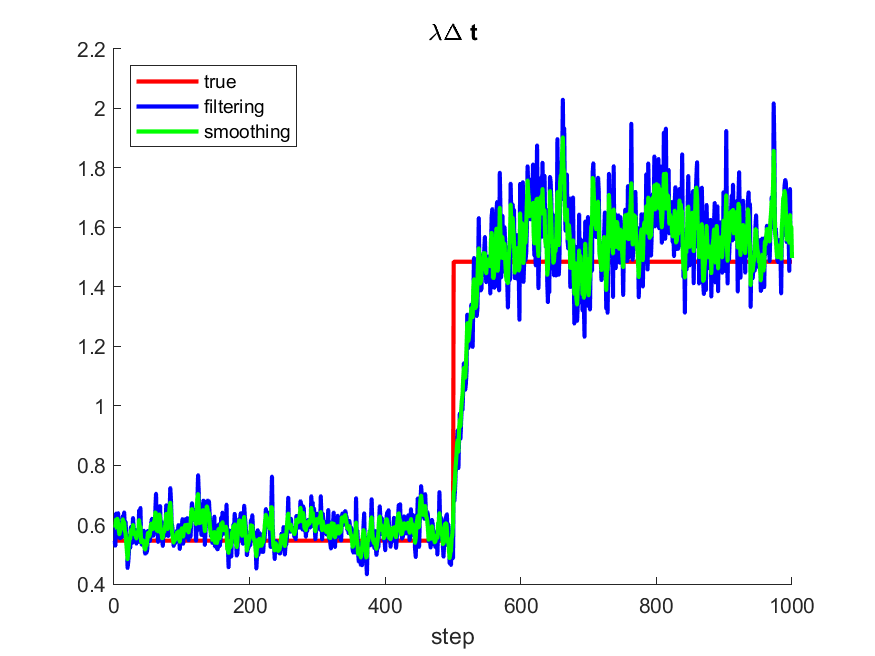
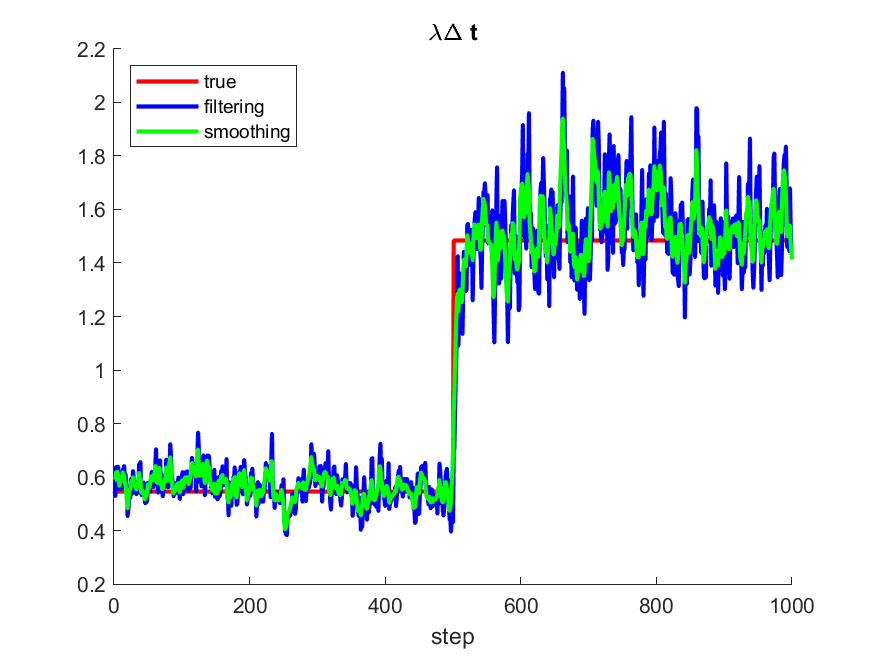
a more general step test

diff --git a/demo.m b/demo.m
@@ -10,8 +10,8 @@ G_nu = ones(T/dt, 1);
 
 theta_true = [[repmat(4, 1, round(T/(dt*2)))...
     repmat(5, 1, T/dt - round(T/(dt*2)))]',...
-    [repmat(4, 1, round(T/(dt*2)))...
-    repmat(5, 1, T/dt - round(T/(dt*2)))]'];
+    [repmat(4, 1, round(T/(dt*4)))...
+    repmat(6, 1, T/dt - round(T/(dt*4)))]'];
 
 lam_true = exp(X_lam.*theta_true(:, 1));
 nu_true = exp(G_nu.*theta_true(:, 2));
